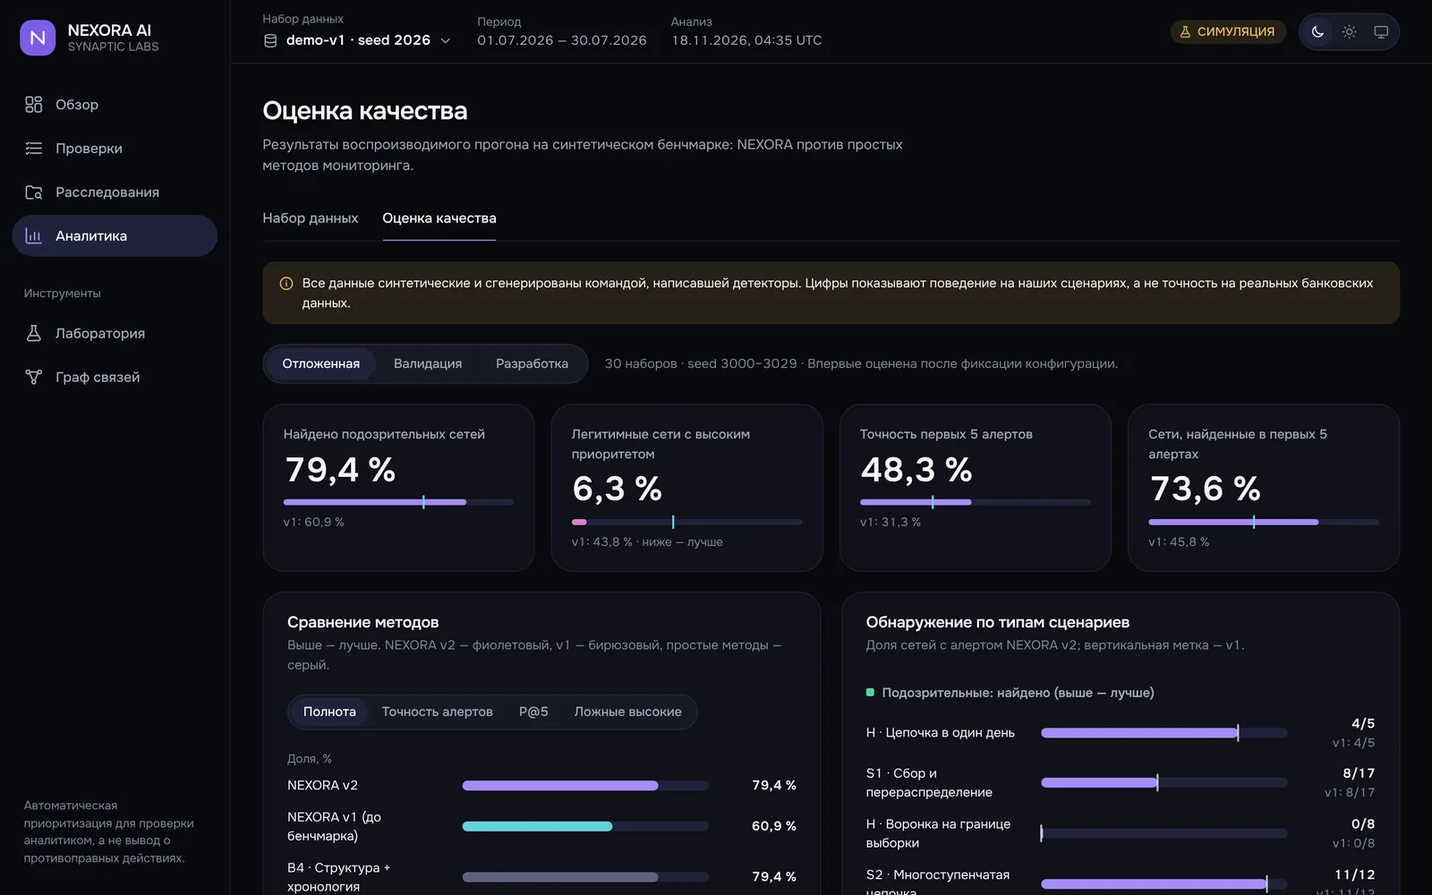
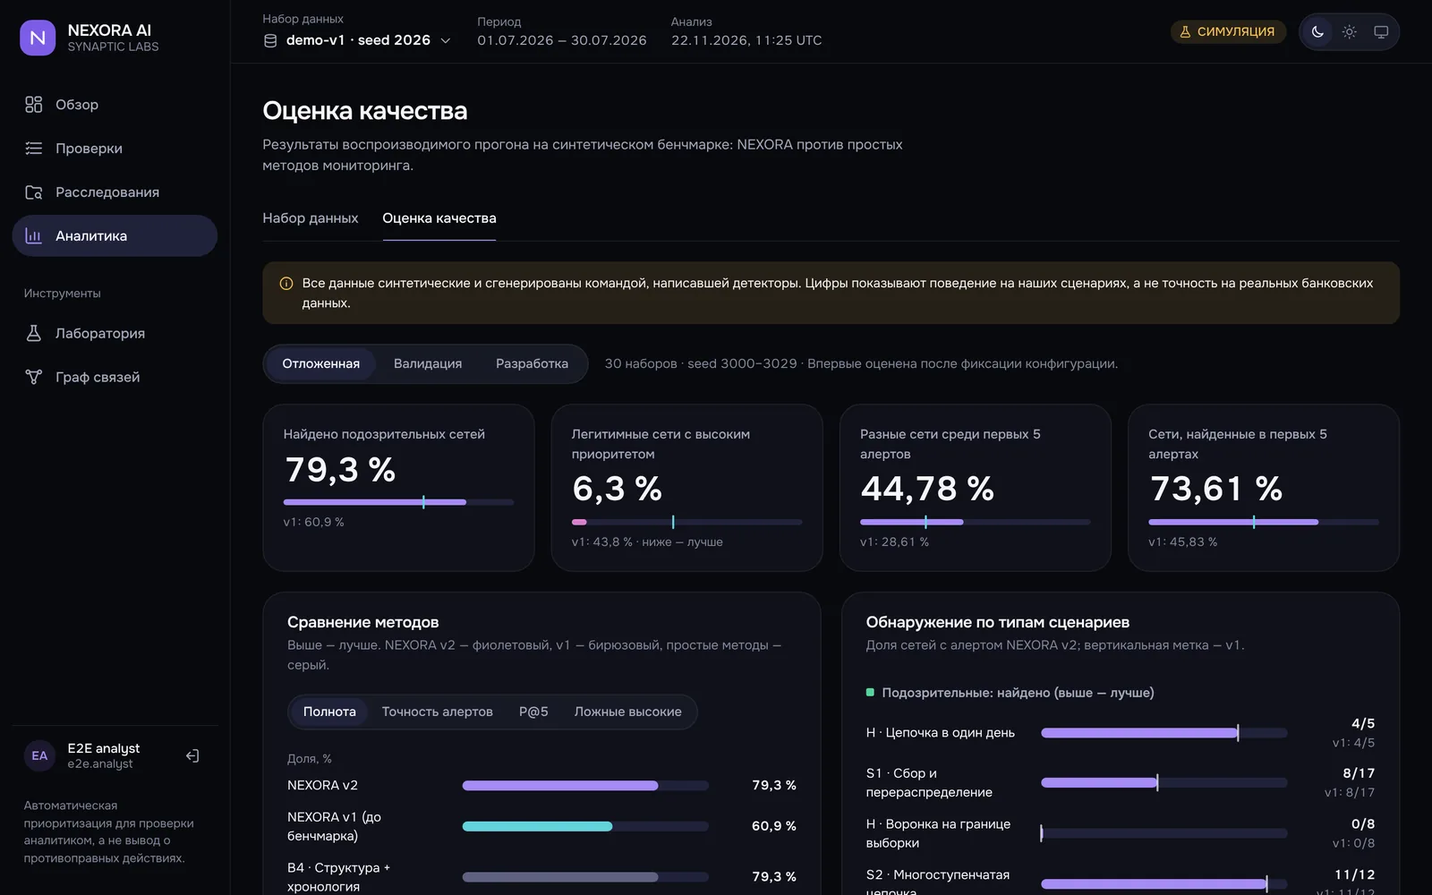
B-003: render published ratios once from counts; consistency tests; docs
Completes the port of the benchmark-arithmetic fixes (H-08).

- scripts/run_benchmark.py rendered docs/EVALUATION.md by re-rounding the
  artifact's 4-decimal ratios to 3 decimals; 18 table rows had a wrong third
  decimal (e.g. validation v2 FPR 36/85 = 0.42353 shown as 0.423). Every
  count-backed ratio now renders once from its counts (Decimal, half-up, as
  on the Evaluation screen); --render-only re-renders from the artifact.
- tests: every summary in bench-v1, dev and sealed artifacts recomputes from
  its counts (fails on all three pre-A2 artifacts); renderer rounding test.
- RESULTS.md: amendment A2 note and provenance; tables unchanged at three
  decimals, median-ms marked as original-run values.
- README screenshot regenerated (same viewport and dataset): it showed
  79,4 %, now 79,3 %.

Verified: ruff/format/mypy clean; pytest 210 passed, 0 skipped; gen:api in
sync; tsc clean; vitest 105; vite build; Playwright 34 passed from a cold
cache; Evaluation screen checked at 1440/390 px in both themes, no overflow,
no console errors.

Claude-Session: https://claude.ai/code/session_01YM4H2WosRxmPZ3JnYgB7uc

diff --git a/scripts/run_benchmark.py b/scripts/run_benchmark.py
@@ -21,6 +21,7 @@ import platform
 import subprocess
 import sys
 import time
+from decimal import ROUND_HALF_UP, Decimal
 from pathlib import Path
 from typing import Any
 
@@ -195,6 +196,32 @@ def _f(v: Any) -> str:
     return str(v)
 
 
+def _r(num: int | None, den: int | None, stored: Any) -> str:
+    """A count-backed ratio at 3 decimals, rounded once from its counts (half up, as on the Evaluation screen).
+
+    Re-rounding the artifact's 4-decimal value can give a wrong digit (H-08); artifacts written before the
+    numerators were emitted fall back to the stored ratio.
+    """
+    if num is None or not den:
+        return _f(stored)
+    return str((Decimal(num) / Decimal(den)).quantize(Decimal("0.001"), rounding=ROUND_HALF_UP))
+
+
+def _ratios(summary: dict[str, Any]) -> dict[str, str]:
+    """Every count-backed ratio of one ``summarize`` result, rendered once from its counts."""
+    sc, al = summary["scenario"], summary["alerts"]
+    tp, fp, fn, susp, legit = sc["tp"], sc["fp"], sc["fn"], sc["suspicious"], sc["legitimate"]
+    return {
+        "precision": _r(tp, tp + fp, sc["precision"]),
+        "recall": _r(tp, susp, sc["recall"]),
+        "f1": _r(2 * tp, 2 * tp + fp + fn, sc["f1"]),
+        "fpr": _r(fp, legit, sc["fpr"]),
+        "high_band_recall": _r(sc.get("tp_high"), susp, sc["high_band_recall"]),
+        "high_band_fpr": _r(sc.get("fp_high"), legit, sc["high_band_fpr"]),
+        "alert_precision": _r(al.get("relevant"), al["flagged"], al["precision"]),
+    }
+
+
 def render(a: dict[str, Any]) -> str:
     labels = {m["id"]: m["label"] for m in a["methods"]}
     lines = [
@@ -233,11 +260,11 @@ def render(a: dict[str, Any]) -> str:
             "|---|---:|---:|---:|---:|---:|---:|---:|---:|---:|---:|---:|---:|---:|",
         ]
         for mid, s in res.items():
-            sc, q = s["scenario"], s["queue"]
+            q, r = s["queue"], _ratios(s)
             lines.append(
-                f"| {labels.get(mid, mid)} | {_f(sc['precision'])} | {_f(sc['recall'])} | {_f(sc['f1'])} | "
-                f"{_f(sc['fpr'])} | {_f(sc['high_band_recall'])} | {_f(sc['high_band_fpr'])} | "
-                f"{_f(s['alerts']['per_dataset'])} | {_f(s['alerts']['precision'])} | {_f(q['p_at_5'])} | "
+                f"| {labels.get(mid, mid)} | {r['precision']} | {r['recall']} | {r['f1']} | {r['fpr']} | "
+                f"{r['high_band_recall']} | {r['high_band_fpr']} | {_f(s['alerts']['per_dataset'])} | "
+                f"{r['alert_precision']} | {_f(q['p_at_5'])} | "
                 f"{_f(q['recall_at_5'])} | {_f(q['p_at_10'])} | {_f(q['recall_at_10'])} | "
                 f"{_f(s['latency_ms']['median'])} |"
             )
@@ -268,28 +295,28 @@ def render(a: dict[str, Any]) -> str:
             "|---|---:|---:|---:|---:|---:|---:|",
         ]
         for vid, s in abl.items():
-            sc, q = s["scenario"], s["queue"]
+            q, r = s["queue"], _ratios(s)
             lines.append(
-                f"| {vid} | {_f(sc['recall'])} | {_f(sc['fpr'])} | {_f(sc['high_band_fpr'])} | "
-                f"{_f(s['alerts']['precision'])} | {_f(q['p_at_5'])} | {_f(q['recall_at_5'])} |"
+                f"| {vid} | {r['recall']} | {r['fpr']} | {r['high_band_fpr']} | "
+                f"{r['alert_precision']} | {_f(q['p_at_5'])} | {_f(q['recall_at_5'])} |"
             )
     if "robustness" in a:
         base = a["robustness"]["base"]
+        rb = _ratios(base)
         lines += [
             "",
             "## Robustness — validation",
             "",
             "| Perturbation | Identical output | Scen. recall | FPR | High-band FPR | P@5 | Median ms |",
             "|---|---|---:|---:|---:|---:|---:|",
-            f"| (none) | — | {_f(base['scenario']['recall'])} | {_f(base['scenario']['fpr'])} | "
-            f"{_f(base['scenario']['high_band_fpr'])} | {_f(base['queue']['p_at_5'])} | "
+            f"| (none) | — | {rb['recall']} | {rb['fpr']} | {rb['high_band_fpr']} | {_f(base['queue']['p_at_5'])} | "
             f"{_f(base['latency_ms']['median'])} |",
         ]
         for p in a["robustness"]["perturbations"]:
-            s = p["summary"]
+            s, r = p["summary"], _ratios(p["summary"])
             lines.append(
                 f"| {p['description']} | {'yes' if p['identical_to_base'] else 'no'} | "
-                f"{_f(s['scenario']['recall'])} | {_f(s['scenario']['fpr'])} | {_f(s['scenario']['high_band_fpr'])} | "
+                f"{r['recall']} | {r['fpr']} | {r['high_band_fpr']} | "
                 f"{_f(s['queue']['p_at_5'])} | {_f(s['latency_ms']['median'])} |"
             )
         lines += [
@@ -300,10 +327,9 @@ def render(a: dict[str, Any]) -> str:
             "|---|---:|---:|---:|---:|",
         ]
         for v in a["sensitivity"]["variants"]:
-            s = v["summary"]
+            s, r = v["summary"], _ratios(v["summary"])
             lines.append(
-                f"| `{v['id']}` | {_f(s['scenario']['recall'])} | {_f(s['scenario']['fpr'])} | "
-                f"{_f(s['scenario']['high_band_fpr'])} | {_f(s['queue']['p_at_5'])} |"
+                f"| `{v['id']}` | {r['recall']} | {r['fpr']} | {r['high_band_fpr']} | {_f(s['queue']['p_at_5'])} |"
             )
     if "examples" in a:
         lines += ["", "## Error examples — holdout, NEXORA v2", ""]
@@ -332,7 +358,16 @@ def main() -> None:
     parser.add_argument("--splits", default="dev,validation,holdout")
     parser.add_argument("--out", default=str(ROOT / OUTPUTS[0]))
     parser.add_argument("--report", default=str(ROOT / OUTPUTS[1]))
+    parser.add_argument(
+        "--render-only",
+        action="store_true",
+        help="re-render the report from the existing artifact (--out) without running the benchmark",
+    )
     args = parser.parse_args()
+    if args.render_only:
+        Path(args.report).write_text(render(json.loads(Path(args.out).read_text(encoding="utf-8"))), encoding="utf-8")
+        print(f"rendered {args.report} from {args.out}")
+        return
     artifact = run([s.strip() for s in args.splits.split(",") if s.strip()])
     out = Path(args.out)
     out.parent.mkdir(parents=True, exist_ok=True)

diff --git a/tests/unit/test_benchmark.py b/tests/unit/test_benchmark.py
@@ -254,3 +254,67 @@ def test_committed_benchmark_artifact_validates_against_the_api_schema():
     root = Path(__file__).resolve().parents[2]
     assert json.loads((root / "benchmarks/results/bench-v1.json").read_text())["schema_version"] == 1
     EvaluationReport.model_validate(load_report("benchmarks/results/bench-v1.json"))
+
+
+# -- published arithmetic (H-08, backlog B-003) ---------------------------------------------------
+_ARTIFACTS = ("bench-v1.json", "dev-evaluation.json", "sealed-evaluation.json")
+
+
+def _summaries(node, path=""):
+    """Every ``summarize`` result inside an artifact (results, ablations, robustness, sensitivity)."""
+    if isinstance(node, dict):
+        if isinstance(node.get("scenario"), dict) and "tp" in node["scenario"]:
+            yield path, node
+        for k, v in node.items():
+            yield from _summaries(v, f"{path}.{k}")
+    elif isinstance(node, list):
+        for i, v in enumerate(node):
+            yield from _summaries(v, f"{path}[{i}]")
+
+
+@pytest.mark.parametrize("name", _ARTIFACTS)
+def test_every_committed_ratio_recomputes_from_its_counts(name):
+    import json
+    from pathlib import Path
+
+    from nexora.evaluation.benchmark import _ratio
+
+    artifact = json.loads((Path(__file__).resolve().parents[2] / "benchmarks" / "results" / name).read_text())
+    found = list(_summaries(artifact))
+    assert len(found) >= 10
+    for path, s in found:
+        sc, al = s["scenario"], s["alerts"]
+        tp, fp, fn, tn = sc["tp"], sc["fp"], sc["fn"], sc["tn"]
+        assert (tp + fn, fp + tn) == (sc["suspicious"], sc["legitimate"]), path
+        expected = {
+            "precision": _ratio(tp, tp + fp),
+            "recall": _ratio(tp, tp + fn),
+            "f1": _ratio(2 * tp, 2 * tp + fp + fn),
+            "fpr": _ratio(fp, fp + tn),
+        }
+        assert {k: sc[k] for k in expected} == expected, path
+        if sc["high_band_fpr"] is not None:
+            assert sc["high_band_recall"] == _ratio(sc["tp_high"], tp + fn), path
+            assert sc["high_band_fpr"] == _ratio(sc["fp_high"], fp + tn), path
+        assert al["precision"] == _ratio(al["relevant"], al["flagged"]), path
+
+
+def test_report_rounds_count_backed_ratios_once():
+    from scripts.run_benchmark import _r, _ratios
+
+    # 8/128 = 0.0625 exactly: half-up gives 0.063 (formatting the float 0.0625 gives 0.062).
+    assert _r(8, 128, 0.0625) == "0.063"
+    # 36/85 = 0.42353 is stored as 0.4235; re-rounding that would print 0.423.
+    assert _r(36, 85, 0.4235) == "0.424"
+    assert _r(None, 85, 0.4235) == f"{0.4235:.3f}"  # artifact without numerators: the stored value, as before
+    assert _r(0, 0, None) == "—"
+    summary = {
+        "scenario": {
+            "tp": 73, "fp": 48, "fn": 19, "suspicious": 92, "legitimate": 128, "tp_high": 59, "fp_high": 8,
+            "precision": 0.6033, "recall": 0.7935, "f1": 0.6854, "fpr": 0.375,
+            "high_band_recall": 0.6413, "high_band_fpr": 0.0625,
+        },
+        "alerts": {"flagged": 285, "relevant": 99, "precision": 0.3474},
+    }  # fmt: skip
+    r = _ratios(summary)
+    assert (r["recall"], r["f1"], r["high_band_fpr"]) == ("0.793", "0.685", "0.063")

diff --git a/docs/EVALUATION.md b/docs/EVALUATION.md
@@ -37,20 +37,20 @@
 
 | Method | Scen. precision | Scen. recall | F1 | FPR | High-band recall | High-band FPR | Alerts / dataset | Alert precision | P@5 | Recall@5 | P@10 | Recall@10 | Median ms |
 |---|---:|---:|---:|---:|---:|---:|---:|---:|---:|---:|---:|---:|---:|
-| NEXORA v2 | 0.544 | 0.768 | 0.637 | 0.423 | 0.625 | 0.106 | 7.850 | 0.319 | 0.492 | 0.700 | 0.418 | 0.812 | 83.500 |
+| NEXORA v2 | 0.544 | 0.768 | 0.637 | 0.424 | 0.625 | 0.106 | 7.850 | 0.318 | 0.492 | 0.700 | 0.418 | 0.812 | 83.500 |
 | NEXORA v1 | 0.465 | 0.589 | 0.520 | 0.447 | 0.429 | 0.435 | 5.850 | 0.333 | 0.402 | 0.500 | 0.433 | 0.646 | 58.000 |
-| B4 Structure + temporal | 0.581 | 0.768 | 0.661 | 0.365 | 0.643 | 0.329 | 7.300 | 0.308 | 0.378 | 0.521 | 0.426 | 0.800 | 70.800 |
+| B4 Structure + temporal | 0.581 | 0.768 | 0.662 | 0.365 | 0.643 | 0.329 | 7.300 | 0.308 | 0.378 | 0.521 | 0.426 | 0.800 | 70.800 |
 | B3 Structure only | 0.448 | 1.000 | 0.619 | 0.812 | — | — | 51.350 | 0.065 | 0.120 | 0.237 | 0.125 | 0.438 | 75.700 |
 | B1 Monitoring rules | 0.435 | 0.893 | 0.585 | 0.765 | — | — | 37.050 | 0.205 | 0.330 | 0.500 | 0.385 | 0.758 | 1.800 |
-| B0 Turnover ranking | 0.412 | 0.589 | 0.485 | 0.553 | — | — | 7.850 | 0.433 | 0.340 | 0.442 | 0.425 | 0.683 | 4.200 |
+| B0 Turnover ranking | 0.413 | 0.589 | 0.485 | 0.553 | — | — | 7.850 | 0.433 | 0.340 | 0.442 | 0.425 | 0.683 | 4.200 |
 | B2 PageRank | 0.116 | 0.089 | 0.101 | 0.447 | — | — | 7.850 | 0.038 | 0.000 | 0.000 | 0.040 | 0.083 | 34.500 |
 
 ## Results — holdout
 
 | Method | Scen. precision | Scen. recall | F1 | FPR | High-band recall | High-band FPR | Alerts / dataset | Alert precision | P@5 | Recall@5 | P@10 | Recall@10 | Median ms |
 |---|---:|---:|---:|---:|---:|---:|---:|---:|---:|---:|---:|---:|---:|
-| NEXORA v2 | 0.603 | 0.793 | 0.685 | 0.375 | 0.641 | 0.062 | 9.500 | 0.347 | 0.483 | 0.736 | 0.420 | 0.872 | 86.200 |
-| NEXORA v1 | 0.487 | 0.609 | 0.541 | 0.461 | 0.359 | 0.438 | 7.300 | 0.310 | 0.313 | 0.458 | 0.364 | 0.664 | 60.600 |
+| NEXORA v2 | 0.603 | 0.793 | 0.685 | 0.375 | 0.641 | 0.063 | 9.500 | 0.347 | 0.483 | 0.736 | 0.420 | 0.872 | 86.200 |
+| NEXORA v1 | 0.487 | 0.609 | 0.541 | 0.461 | 0.359 | 0.438 | 7.300 | 0.311 | 0.313 | 0.458 | 0.364 | 0.664 | 60.600 |
 | B4 Structure + temporal | 0.629 | 0.793 | 0.702 | 0.336 | 0.652 | 0.281 | 8.830 | 0.332 | 0.379 | 0.600 | 0.387 | 0.833 | 81.600 |
 | B3 Structure only | 0.492 | 1.000 | 0.659 | 0.742 | — | — | 57.930 | 0.072 | 0.220 | 0.306 | 0.163 | 0.431 | 91.100 |
 | B1 Monitoring rules | 0.461 | 0.957 | 0.622 | 0.805 | — | — | 42.570 | 0.279 | 0.327 | 0.436 | 0.470 | 0.717 | 2.100 |
@@ -84,49 +84,49 @@ Suspicious families: share flagged (higher is better). Legitimate families: shar
 
 | Variant | Scen. recall | FPR | High-band FPR | Alert precision | P@5 | Recall@5 |
 |---|---:|---:|---:|---:|---:|---:|
-| full | 0.768 | 0.423 | 0.106 | 0.319 | 0.492 | 0.700 |
+| full | 0.768 | 0.424 | 0.106 | 0.318 | 0.492 | 0.700 |
 | minus_temporal | 0.518 | 0.624 | 0.024 | 0.103 | 0.230 | 0.362 |
 | minus_peer | 0.768 | 0.365 | 0.329 | 0.308 | 0.378 | 0.521 |
 | minus_fan_out_cycle | 0.589 | 0.329 | 0.082 | 0.364 | 0.486 | 0.575 |
 | minus_returning_feeder_rule | 0.768 | 0.541 | 0.224 | 0.299 | 0.448 | 0.675 |
-| minus_coverage_abstention | 0.839 | 0.423 | 0.106 | 0.335 | 0.502 | 0.725 |
+| minus_coverage_abstention | 0.839 | 0.424 | 0.106 | 0.335 | 0.502 | 0.725 |
 
 ## Ablations — holdout
 
 | Variant | Scen. recall | FPR | High-band FPR | Alert precision | P@5 | Recall@5 |
 |---|---:|---:|---:|---:|---:|---:|
-| full | 0.793 | 0.375 | 0.062 | 0.347 | 0.483 | 0.736 |
+| full | 0.793 | 0.375 | 0.063 | 0.347 | 0.483 | 0.736 |
 | minus_temporal | 0.554 | 0.609 | 0.055 | 0.140 | 0.386 | 0.450 |
 | minus_peer | 0.793 | 0.336 | 0.281 | 0.332 | 0.379 | 0.600 |
 | minus_fan_out_cycle | 0.630 | 0.297 | 0.047 | 0.352 | 0.419 | 0.547 |
 | minus_returning_feeder_rule | 0.793 | 0.539 | 0.227 | 0.321 | 0.440 | 0.686 |
-| minus_coverage_abstention | 0.870 | 0.375 | 0.062 | 0.363 | 0.496 | 0.769 |
+| minus_coverage_abstention | 0.870 | 0.375 | 0.063 | 0.363 | 0.496 | 0.769 |
 
 ## Robustness — validation
 
 | Perturbation | Identical output | Scen. recall | FPR | High-band FPR | P@5 | Median ms |
 |---|---|---:|---:|---:|---:|---:|
-| (none) | — | 0.768 | 0.423 | 0.106 | 0.492 | 110.900 |
-| row order shuffled (out-of-order arrival) | yes | 0.768 | 0.423 | 0.106 | 0.492 | 85.300 |
-| 5% of rows re-sent as exact duplicates | yes | 0.768 | 0.423 | 0.106 | 0.492 | 76.800 |
+| (none) | — | 0.768 | 0.424 | 0.106 | 0.492 | 110.900 |
+| row order shuffled (out-of-order arrival) | yes | 0.768 | 0.424 | 0.106 | 0.492 | 85.300 |
+| 5% of rows re-sent as exact duplicates | yes | 0.768 | 0.424 | 0.106 | 0.492 | 76.800 |
 | 10% of rows missing at random | no | 0.607 | 0.400 | 0.071 | 0.410 | 78.200 |
-| every amount perturbed by up to +/-1% | no | 0.768 | 0.423 | 0.129 | 0.472 | 104.300 |
+| every amount perturbed by up to +/-1% | no | 0.768 | 0.424 | 0.129 | 0.472 | 104.300 |
 | intraday timestamps removed (day precision only) | no | 0.786 | 0.435 | 0.094 | 0.492 | 80.500 |
 | 10% of accounts declared at the collection boundary | no | 0.732 | 0.400 | 0.106 | 0.423 | 82.400 |
 | twice the unlabelled background volume | no | 0.786 | 0.435 | 0.071 | 0.477 | 74.500 |
-| four times the unlabelled background volume | no | 0.786 | 0.423 | 0.071 | 0.547 | 79.500 |
+| four times the unlabelled background volume | no | 0.786 | 0.424 | 0.071 | 0.547 | 79.500 |
 
 ## Threshold sensitivity — validation
 
 | Change | Scen. recall | FPR | High-band FPR | P@5 |
 |---|---:|---:|---:|---:|
-| `funnel.min_feeder_share=0.4` | 0.768 | 0.423 | 0.106 | 0.435 |
-| `funnel.min_feeder_share=0.6` | 0.768 | 0.423 | 0.106 | 0.482 |
+| `funnel.min_feeder_share=0.4` | 0.768 | 0.424 | 0.106 | 0.435 |
+| `funnel.min_feeder_share=0.6` | 0.768 | 0.424 | 0.106 | 0.482 |
 | `temporal.max_hop_lag_days=5` | 0.714 | 0.365 | 0.059 | 0.492 |
 | `temporal.max_hop_lag_days=10` | 0.875 | 0.471 | 0.129 | 0.455 |
 | `fan_out.min_recipients=4` | 0.768 | 0.447 | 0.118 | 0.433 |
-| `fan_out.min_recipients=6` | 0.732 | 0.377 | 0.106 | 0.488 |
-| `peer.fence_iqr_multiplier=1.0` | 0.768 | 0.423 | 0.106 | 0.492 |
+| `fan_out.min_recipients=6` | 0.732 | 0.376 | 0.106 | 0.488 |
+| `peer.fence_iqr_multiplier=1.0` | 0.768 | 0.424 | 0.106 | 0.492 |
 | `peer.fence_iqr_multiplier=2.0` | 0.768 | 0.412 | 0.106 | 0.498 |
 
 ## Error examples — holdout, NEXORA v2

diff --git a/docs/handoff/EXECUTION_LEDGER.md b/docs/handoff/EXECUTION_LEDGER.md
@@ -118,3 +118,34 @@ Entry template:
 * Not executed: Docker compose stack (no daemon).
 * Decision assumed: D-4 default (off everywhere except an explicit local opt-in).
 * State file updated: yes.
+
+### L-0007 · 2026-11-22 · B-003 · status: done
+* Branch / commits: `feat/b-003-benchmark-arithmetic` → fast-forwarded into `claude/peaceful-darwin-nrquu9`. Cherry-picked `65e3894`
+  (sharp-cannon, screen rounding), `8c7f2ff` (F1 from counts + numerators), `1867d01` (dirty-tree fix); the artifact half of `d084a97` was
+  **not** cherry-picked — regenerated instead. Then: runner porcelain fix, artifact regeneration commits, amendment A2, renderer fix.
+* Conflicts resolved: `Evaluation.tsx` — kept the integration line's distinct-network P@5 headline (audit L-02) inside the new count-based
+  `methodMetrics` model (added `MethodMetrics.p5Distinct`); `tests/unit/test_benchmark.py` — union of both assertions (numerators +
+  `per_flagged_network` / `networks_with_duplicates`); `docs/assets/screenshots/evaluation.webp` — the cherry-picked image came from another UI
+  lineage, so it was regenerated (below).
+* Artifacts (scripts only, clean trees): `run_benchmark.py` at `3f87b95` (92.6 s); A2 committed **before** the sealed rerun;
+  `run_sealed_evaluation.py --split sealed` at `e113df7` (88.6 s), `--split dev` (39.9 s). Field-by-field diff (scratch script) old → new, all
+  three: **0 integer/count changes**; sealed and dev `decision`, `bootstrap`, `examples` identical; F1 changed by ≤ 1e-4 in 9 (bench, incl.
+  holdout v2 0.6855 → 0.6854), 3 (sealed: B3, B1, B0) and 4 (dev) summaries; new `tp_high`/`fp_high`/`relevant`; latency, platform, timestamps,
+  commit, harness hash differ. Generator and candidate/baseline config hashes verified unchanged before the rerun.
+* New defect found and fixed (H-08 class): `scripts/run_benchmark.py` rendered `docs/EVALUATION.md` by re-rounding stored 4-decimal ratios to 3
+  decimals; **18 table rows** carried a wrong third decimal (e.g. validation v2 FPR 36/85 = 0.42353 shown 0.423 → 0.424; holdout v2 high-band FPR
+  8/128 = 0.0625 shown 0.062 → 0.063 half-up; validation v2 alert precision 50/157 = 0.31847 shown 0.319 → 0.318). Count-backed ratios now
+  render once from counts (Decimal, half-up, as on the screen); added `--render-only` to re-render from the committed artifact.
+  Also fixed the same porcelain-strip bug in `run_sealed_evaluation.py` as `1867d01` fixed in `run_benchmark.py`.
+* Docs: README 79.4 % → 79.3 % (from the cherry-pick); `docs/evaluation/RESULTS.md` A2 note + provenance (tables unchanged at 3 decimals;
+  median-ms columns marked as original-run values); `EXPERIMENT_PROTOCOL.md` amendment A2. README table re-checked against counts: all match.
+  README screenshot regenerated on the dev stack (same 1440×900 viewport, `demo-v1 · seed 2026`, 2× → 1600×1000 webp): it showed 79,4 %, now
+  79,3 %. Not produced through the Docker gateway smoke pipeline (no Docker here).
+* Tests: Python `test_every_committed_ratio_recomputes_from_its_counts[bench-v1|dev|sealed]` (fails on all three old artifacts, passes now) and
+  `test_report_rounds_count_backed_ratios_once`; vitest artifact-consistency test from `8c7f2ff` failed on the old artifact, passes now;
+  `evaluation.spec.ts` asserts the headline reads `79,3 %`.
+* Verification: ruff clean, format 89 files, mypy clean, pytest **210 passed** 0 skipped; gen:api in sync (schema change from `8c7f2ff` already
+  carried its generated files); tsc clean; vitest **105 passed**; vite build ok; Playwright cold cache **34 passed**; visual check of
+  `/analytics/benchmark` at 1440 and 390 px, dark and light: no horizontal overflow, empty console-error list (scratch spec, deleted).
+* Not executed: Docker smoke screenshot pipeline. Pitch numbers (`apps/pitch`) untouched — B-004.
+* State file updated: yes.

diff --git a/docs/handoff/EXECUTION_STATE.md b/docs/handoff/EXECUTION_STATE.md
@@ -30,12 +30,13 @@ real Nginx image, ORM load/publish at 200k rows.
 
 ## Tasks
 
-* **Completed backlog tasks**: B-001 (L-0005), B-010 (L-0006). (Earlier, outside the backlog: the four fixes and the verification checklist in commit
+* **Completed backlog tasks**: B-001 (L-0005), B-010 (L-0006), B-003 (L-0007). (Earlier, outside the backlog: the four fixes and the verification checklist in commit
   `7abd9a5` — MediaPipe pre-bundling, worker network guard for all four channels, `INFO:` stderr routing, `toCanvasColor`.)
-* **Active**: B-003.
-* **Ready now (autonomous, no human input, dependencies met)**: B-003, B-010, B-012, B-013, B-015, B-017, B-020, B-022, B-031, B-040,
-  B-041, B-047, B-050, B-053, B-021 (B-001 done). Recommended order: **B-003 → B-015 → B-012 → B-031 → B-020 → B-040/B-041**.
-* **Pending (waiting on dependencies)**: B-004, B-011 (deps B-001+B-010 now done → ready), B-014, B-016, B-018*, B-019, B-023, B-024, B-032, B-033, B-042..B-046, B-052, B-054
+* **Active**: B-015.
+* **Ready now (autonomous, no human input, dependencies met)**: B-012, B-013, B-015, B-017, B-020, B-022, B-031, B-040,
+  B-041, B-047, B-050, B-053, B-021 (B-001 done). Recommended order: **B-015 → B-012 → B-031 → B-020 → B-040/B-041**.
+* **Now ready after this session's work**: B-004, B-011, B-021 (B-040 and B-041 were already listed above).
+* **Pending (waiting on dependencies)**: B-014, B-016, B-018*, B-019, B-023, B-024, B-032, B-033, B-042..B-046, B-052, B-054
   (*B-018 has no dependency and may start any time).
 * **Human-gated**: B-002 (approve merges/closures), B-005 (live Railway access), B-030 (a person with a webcam), B-051 (live backups, owner
   decisions D-5), B-055 (deployment approval).
@@ -68,6 +69,6 @@ git checkout -b feat/b-001-migration-chain-guard             # then start B-001 
 ## Known risks right now
 
 1. Two open PRs define migration `0003`; never renumber the auth migration (production reportedly at `0003`). 2. ~~The CSV import route is open to
-any signed-in user~~ — closed by default (B-010 done). 3. Published benchmark arithmetic is off by ≤ 0.1 pp and the fix is on an unmerged branch (B-003). 4. `sealed-v1` is
+any signed-in user~~ — closed by default (B-010 done). 3. ~~Published benchmark arithmetic off by ≤ 0.1 pp~~ — fixed and artifacts regenerated under A2 (B-003 done); the pitch still carries old numbers (B-004). 4. `sealed-v1` is
 consumed — do not tune against it (B-040). 5. Camera recognition has never run on a real hand (B-030). 6. Graph layout freezes the UI for 1–3 s at
 200–300 nodes (B-020). 7. Live deployment state is unverified (B-005). 8. Every figure above is synthetic-data behaviour, not banking accuracy.

diff --git a/docs/evaluation/RESULTS.md b/docs/evaluation/RESULTS.md
@@ -9,8 +9,15 @@ Protocol: `EXPERIMENT_PROTOCOL.md` (locked at `b886a5f`, amendment A1 at `686f4c
 
 * `benchmarks/results/sealed-evaluation.json` — the single sealed run;
 * `benchmarks/results/dev-evaluation.json` — same runner on the exposed `bench-v1` dev split;
-* `benchmarks/results/bench-v1.json` — the historical v2 benchmark (unchanged, reproduced exactly at
-  `4c01a7a`; its holdout is exposed and its abstention numbers are affected by L-01).
+* `benchmarks/results/bench-v1.json` — the historical v2 benchmark (reproduced exactly at `4c01a7a`; its
+  holdout is exposed and its abstention numbers are affected by L-01).
+
+**Amendment A2 (2026-11-22, metric arithmetic only).** All three artifacts were regenerated by their scripts after
+F1 was changed to be computed from counts (`2tp/(2tp+fp+fn)`) instead of from rounded precision and recall
+(finding H-08). Every count, alert number, bootstrap interval and the sealed decision are identical; F1 moved by at
+most 1e-4 for a few baselines (no value in the tables below changes at three decimals); the harness now also emits
+`tp_high`, `fp_high` and `alerts.relevant`. The *median ms* columns below are from the original runs; the
+regenerated artifacts carry their own (machine-dependent) latencies. No candidate was re-evaluated.
 
 Reproduce:
 
@@ -80,7 +87,7 @@ Decision checks: {'recall_drop_at_most_2pp': True, 'high_band_fpr_not_increased'
 | LX8_charity_campaign | legitimate | 13/36 | 13/36 | 16/36 |
 | LX9_wholesale_supplier | legitimate | 16/32 | 0/32 | 5/32 |
 
-Artifact: `benchmarks/results/sealed-evaluation.json` · code `686f4cedea0b` · split sha256 `be51b04b3dc8a665…` · generator `558e3595239fc4e9…` · harness `23fb169195986fb3…` · candidate config `1f9e2a64aaa1d563…` · baseline config `489b477a3da5ac1b…`
+Artifact: `benchmarks/results/sealed-evaluation.json` · original run code `686f4cedea0b`, harness `23fb169195986fb3…`; regenerated under A2 at code `e113df78aa00`, harness `f6e9f622db30ae1c…` · split sha256 `be51b04b3dc8a665…` · generator `558e3595239fc4e9…` · candidate config `1f9e2a64aaa1d563…` · baseline config `489b477a3da5ac1b…`
 
 ### Development split `bench-v1` dev (30 datasets, exposed — used for design)
 
